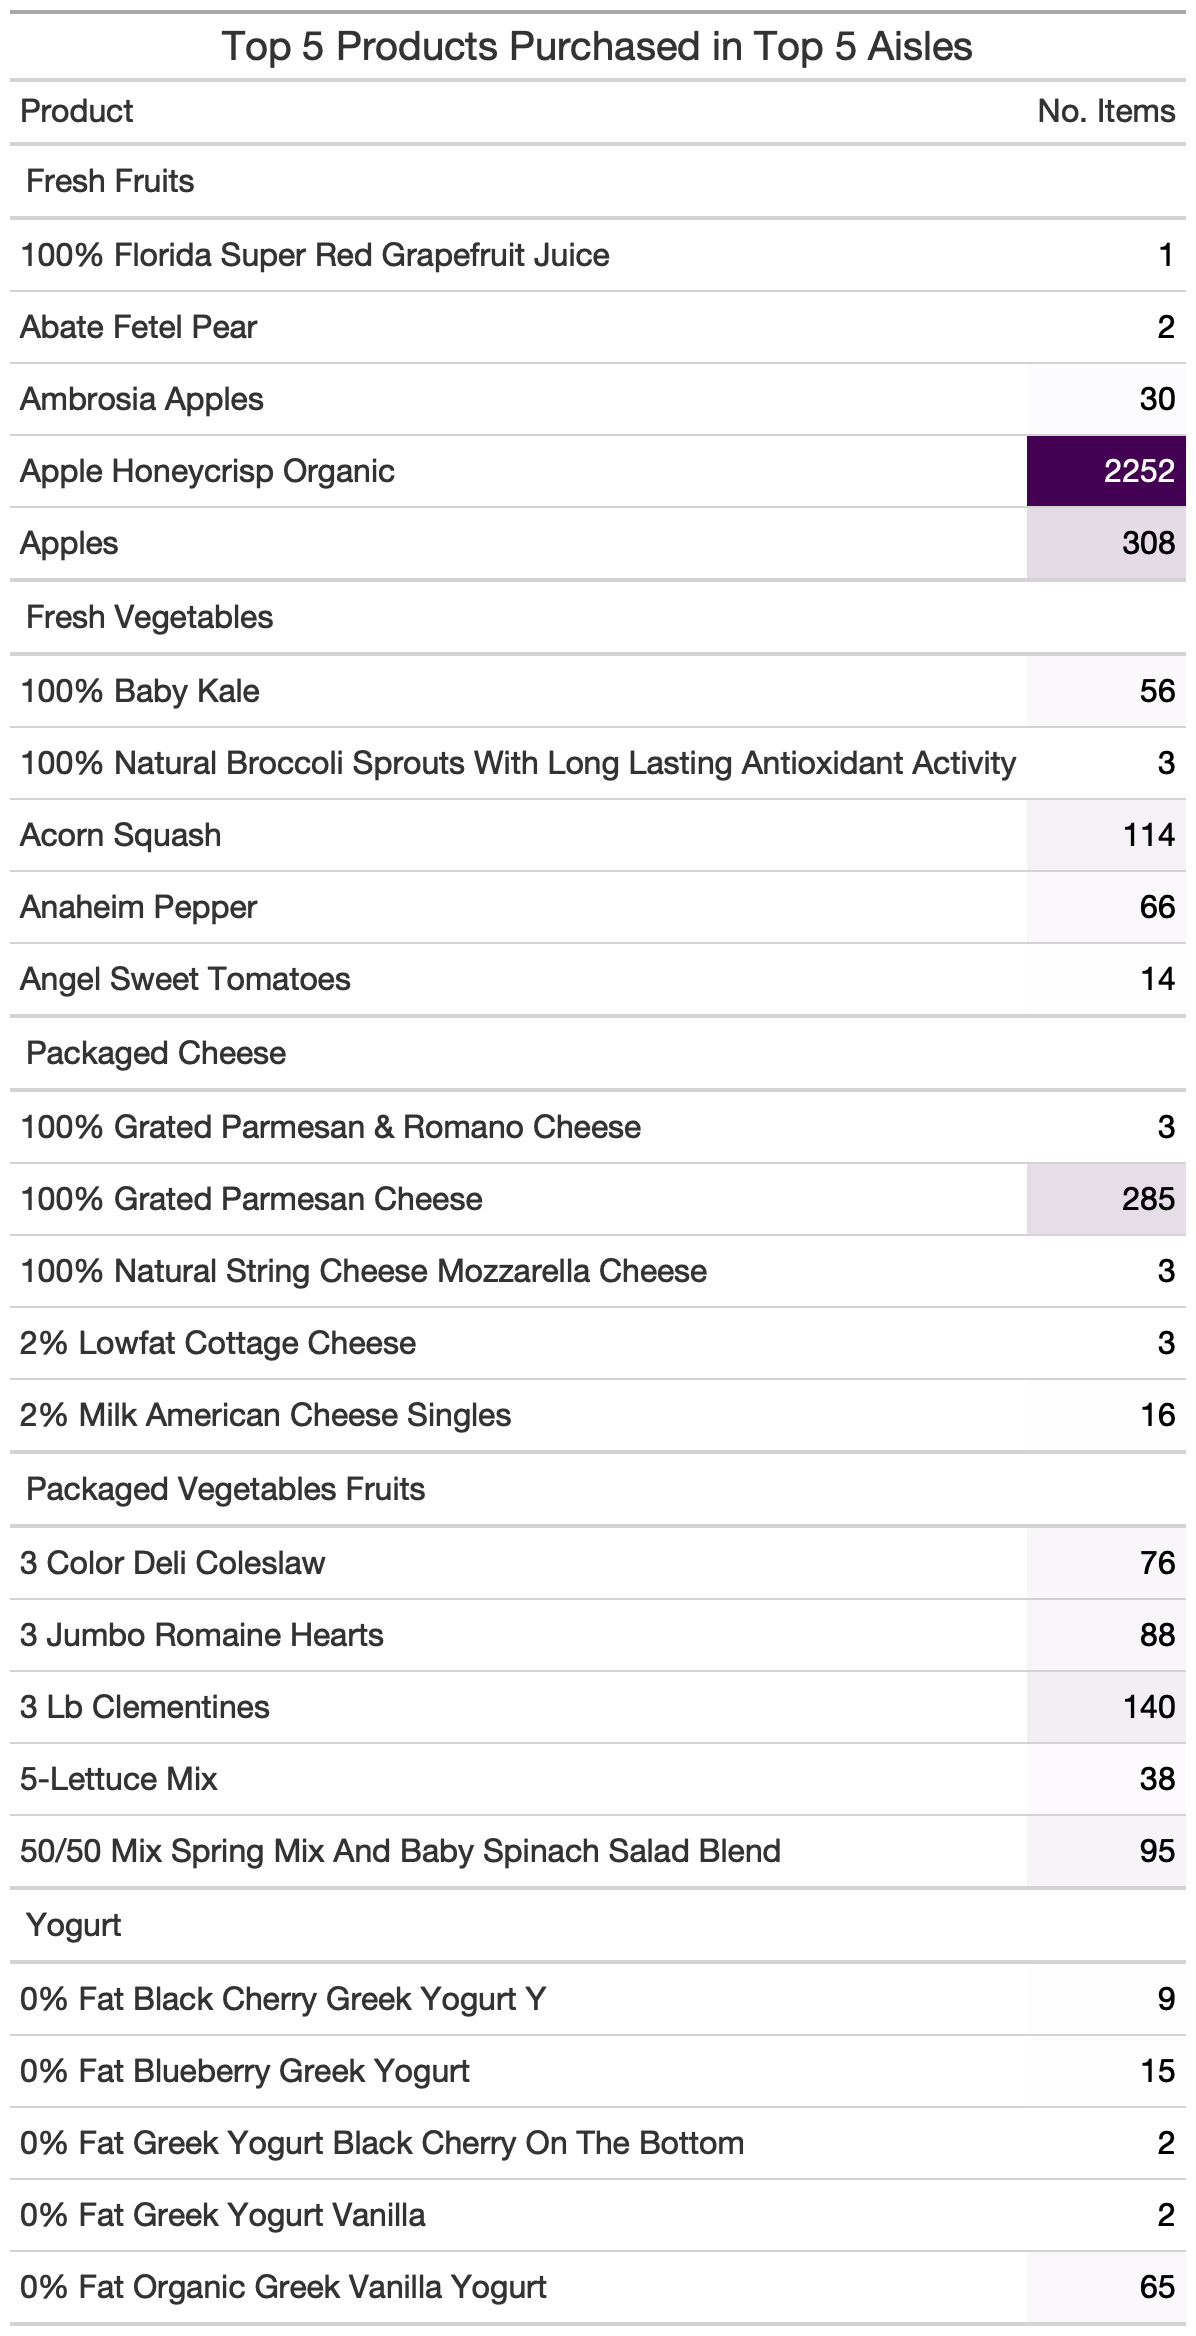
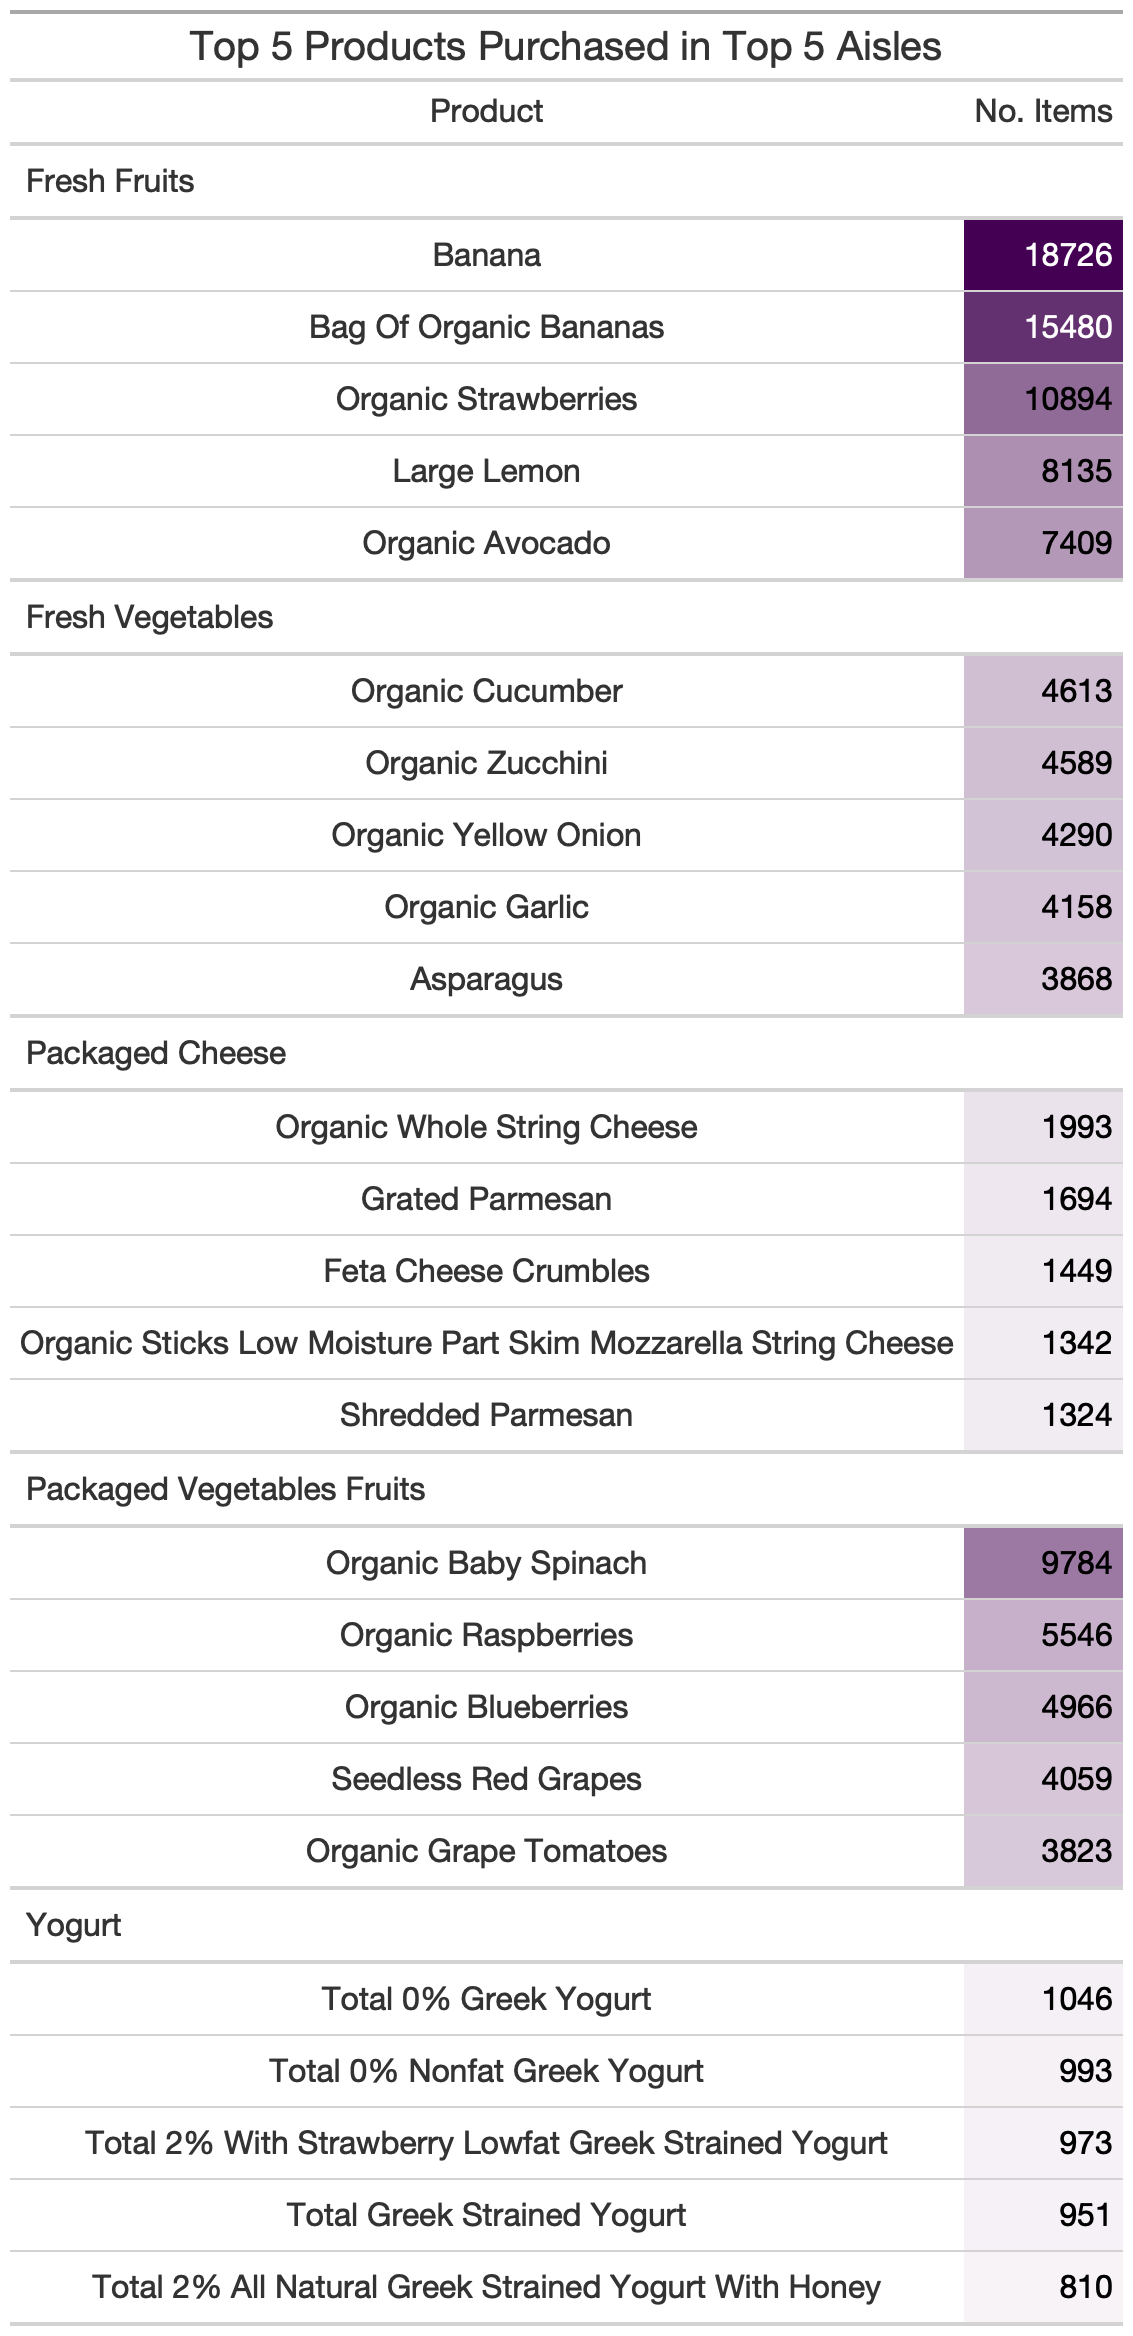
Realized I didn't relevel the factors on the last table by product name so it was displaying alphabetically, changed and updated all files.

diff --git a/src/pubh7462_hm3_rabe0092.md b/src/pubh7462_hm3_rabe0092.md
@@ -216,7 +216,10 @@ instacart.df %>%
   summarise(
     n_items = n()
   ) %>%
-  arrange(aisle, product_name, .desc = n_items) %>%
+  mutate(
+    product_name = fct_reorder(product_name, n_items, .desc = TRUE)
+  ) %>% 
+  arrange(aisle, product_name, .desc = n_items) %>% 
   slice(1:5) %>%
   rename(
     Product = product_name,
@@ -228,7 +231,7 @@ instacart.df %>%
     columns = "No. Items",
     colors = scales::col_numeric(
       palette = c("white", my_purple),
-      domain  = c(0, 2252))) %>% 
+      domain  = c(0, 18726))) %>% 
 
 #Save gt
 #Create a figures directory and save the gt as a .png in there
